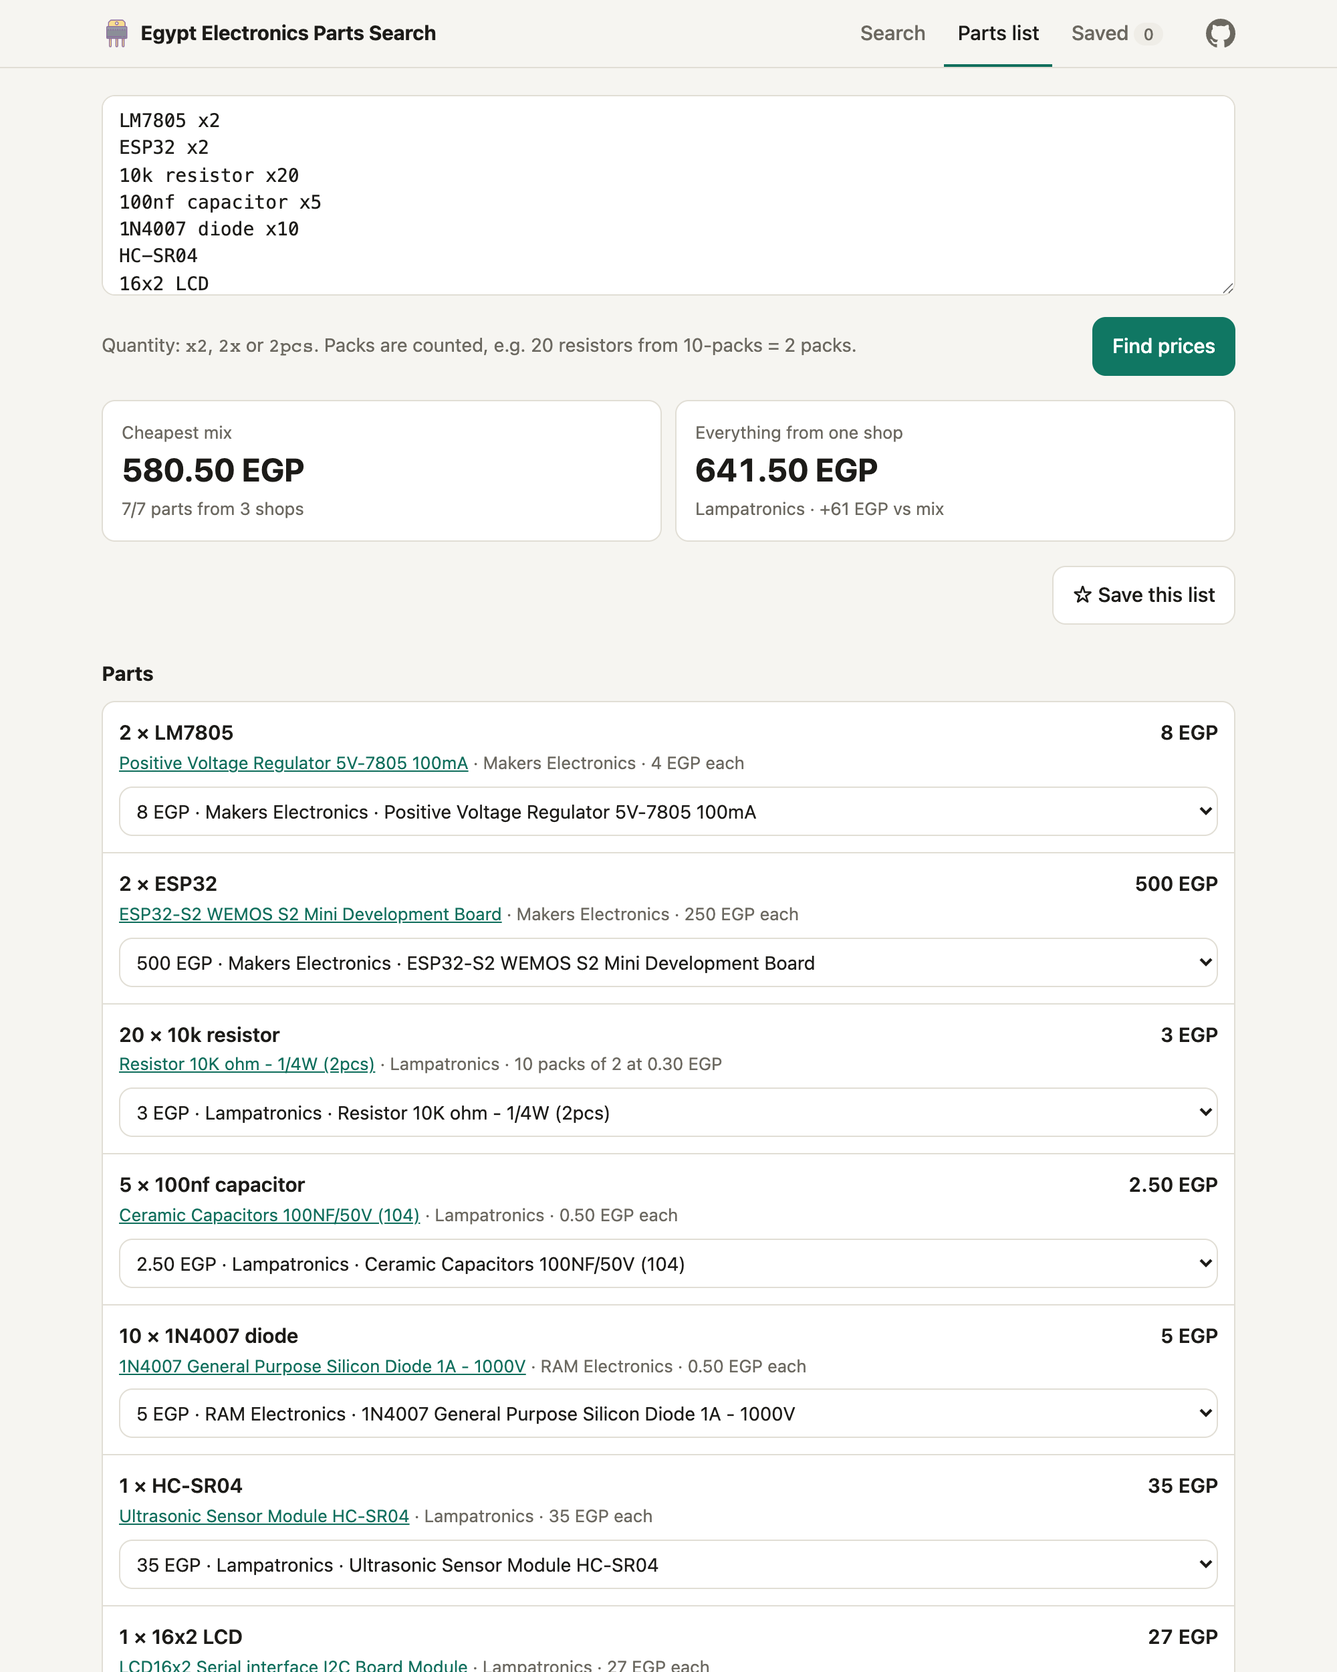
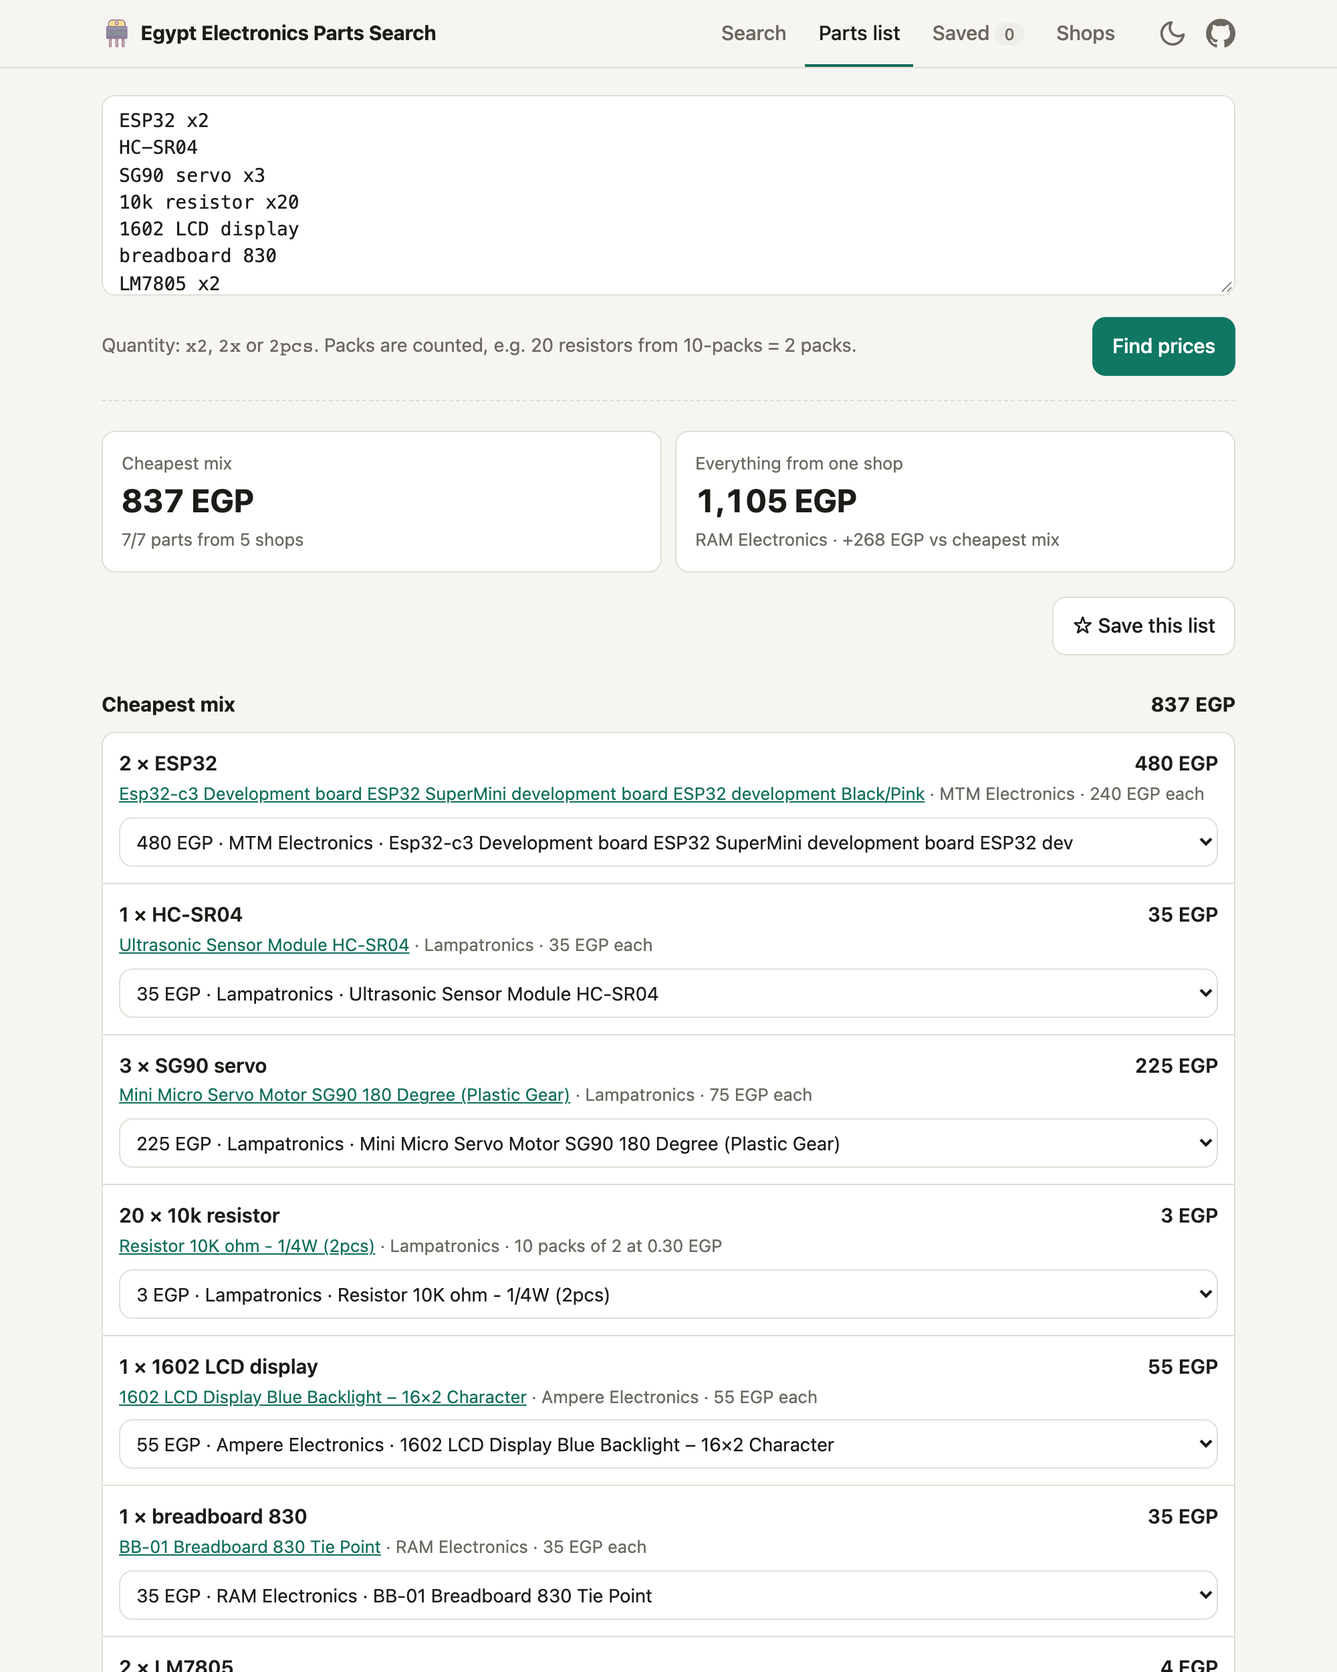
Add VoltX Electronics and retake the screenshots

diff --git a/src/index.html b/src/index.html
@@ -4,8 +4,8 @@
 <head>
 <meta charset="utf-8">
 <meta name="viewport" content="width=device-width, initial-scale=1">
-<title>Egypt Electronics Parts Search · Compare prices at 15 shops</title>
-<meta name="description" content="Search 15 Egyptian electronics shops at once and compare in-stock prices for parts like LM7805 and ESP32. Price a whole parts list. Free, no sign-up.">
+<title>Egypt Electronics Parts Search · Compare prices at 16 shops</title>
+<meta name="description" content="Search 16 Egyptian electronics shops at once and compare in-stock prices for parts like LM7805 and ESP32. Price a whole parts list. Free, no sign-up.">
 <link rel="canonical" href="https://parts.ahmedshaalan.com/">
 <link rel="icon" type="image/png" href="icon.png">
 <link rel="apple-touch-icon" href="icon.png">
@@ -16,7 +16,7 @@
 <meta property="og:type" content="website">
 <meta property="og:site_name" content="Egypt Electronics Parts Search">
 <meta property="og:title" content="Egypt Electronics Parts Search">
-<meta property="og:description" content="Search 15 Egyptian electronics shops at once and compare in-stock prices for parts like LM7805 and ESP32. Price a whole parts list. Free, no sign-up.">
+<meta property="og:description" content="Search 16 Egyptian electronics shops at once and compare in-stock prices for parts like LM7805 and ESP32. Price a whole parts list. Free, no sign-up.">
 <meta property="og:url" content="https://parts.ahmedshaalan.com/">
 <meta property="og:image" content="https://parts.ahmedshaalan.com/og-image.png">
 <meta property="og:image:width" content="1200">
@@ -26,7 +26,7 @@
 <meta property="og:locale:alternate" content="ar_EG">
 <meta name="twitter:card" content="summary_large_image">
 <meta name="twitter:title" content="Egypt Electronics Parts Search">
-<meta name="twitter:description" content="Search 15 Egyptian electronics shops at once and compare in-stock prices for parts like LM7805 and ESP32. Price a whole parts list. Free, no sign-up.">
+<meta name="twitter:description" content="Search 16 Egyptian electronics shops at once and compare in-stock prices for parts like LM7805 and ESP32. Price a whole parts list. Free, no sign-up.">
 <meta name="twitter:image" content="https://parts.ahmedshaalan.com/og-image.png">
 
 <!-- structured data for search engines -->
@@ -37,7 +37,7 @@
   "name": "Egypt Electronics Parts Search",
   "alternateName": "بحث قطع الإلكترونيات في مصر",
   "url": "https://parts.ahmedshaalan.com/",
-  "description": "Search 15 Egyptian electronics shops at once and compare in-stock prices for parts like LM7805 and ESP32. Price a whole parts list. Free, no sign-up.",
+  "description": "Search 16 Egyptian electronics shops at once and compare in-stock prices for parts like LM7805 and ESP32. Price a whole parts list. Free, no sign-up.",
   "applicationCategory": "ShoppingApplication",
   "operatingSystem": "Any",
   "browserRequirements": "Requires JavaScript",
@@ -352,7 +352,7 @@
 <main class="wrap">
   <!-- SEARCH -->
   <section id="tab-search">
-    <h1>Compare electronics part prices across 15 Egyptian shops</h1>
+    <h1>Compare electronics part prices across 16 Egyptian shops</h1>
     <form class="searchbar" id="search-form">
       <input type="search" id="q" placeholder="Search a part, e.g. LM7805, ESP32, 10k resistor" autocomplete="off" autofocus>
       <button class="btn primary" type="submit">Search</button>
@@ -361,7 +361,7 @@
 
     <div class="about" id="about">
       <h2>About this site</h2>
-      <p>Egypt Electronics Parts Search is a free price-comparison tool for electronic components in Egypt. Type a part number or a description, such as <em>LM7805</em>, <em>ESP32</em> or <em>10k resistor</em>, and it searches 15 Egyptian online electronics shops at the same time:
+      <p>Egypt Electronics Parts Search is a free price-comparison tool for electronic components in Egypt. Type a part number or a description, such as <em>LM7805</em>, <em>ESP32</em> or <em>10k resistor</em>, and it searches 16 Egyptian online electronics shops at the same time:
         <a href="https://www.ram-e-shop.com" target="_blank" rel="noopener">RAM Electronics</a>,
         <a href="https://makerselectronics.com" target="_blank" rel="noopener">Makers Electronics</a>,
         <a href="https://store.fut-electronics.com" target="_blank" rel="noopener">Future Electronics</a>,
@@ -375,20 +375,21 @@
         <a href="https://free-electronic.com" target="_blank" rel="noopener">Free Electronics</a>,
         <a href="https://hdelectronicseg.com" target="_blank" rel="noopener">HD Electronics</a>,
         <a href="https://circuit-electronics.com" target="_blank" rel="noopener">Circuit Electronics</a>,
-        <a href="https://electra.store" target="_blank" rel="noopener">Electra Store</a> and
-        <a href="https://mtm-electronic.com" target="_blank" rel="noopener">MTM Electronics</a>.
+        <a href="https://electra.store" target="_blank" rel="noopener">Electra Store</a>,
+        <a href="https://mtm-electronic.com" target="_blank" rel="noopener">MTM Electronics</a> and
+        <a href="https://voltx-store.com" target="_blank" rel="noopener">VoltX Electronics</a>.
         The results are merged into one list with in-stock items only, sale prices next to the original price, the per-piece price for packs, and sorting by best match or lowest price.</p>
       <p>Paste a whole parts list, one part per line, to get the cheapest mix of shops and the single shop that can supply the most of it. Star any product to save it and re-check its price later. Nothing to install and no account needed: saved items stay in your browser.</p>
       <p>I built this for myself because I was tired of searching every shop one by one. I'm not affiliated with any of the shops listed; all prices and stock come from their own websites, and every result links straight to the shop.</p>
       <details class="ar" lang="ar" dir="rtl">
         <summary>عن الموقع بالعربي</summary>
-        <p>موقع مجاني لمقارنة أسعار القطع والمكونات الإلكترونية في مصر. اكتب رقم القطعة أو وصفها، مثل <em>LM7805</em> أو <em>ESP32</em> أو مقاومة 10k، ويبحث الموقع في 15 متجر إلكترونيات مصري في نفس الوقت: رام إلكترونيكس، ميكرز إلكترونيكس، فيوتشر إلكترونيكس، ميكرو أوم، موست إلكترونيك، ديف بوردز ماركت، لامباترونيكس، UGE، أمبير إلكترونيكس، الجمل للإلكترونيات، فري إلكترونيكس، HD إلكترونيكس، سيركت إلكترونيكس، إلكترا ستور، وإم تي إم إلكترونيكس. تُجمع النتائج في قائمة واحدة تعرض القطع المتوفرة فقط، مع سعر التخفيض بجانب السعر الأصلي، وسعر القطعة الواحدة في العبوات، مع إمكانية الترتيب حسب الأقرب للبحث أو الأرخص.</p>
+        <p>موقع مجاني لمقارنة أسعار القطع والمكونات الإلكترونية في مصر. اكتب رقم القطعة أو وصفها، مثل <em>LM7805</em> أو <em>ESP32</em> أو مقاومة 10k، ويبحث الموقع في 16 متجر إلكترونيات مصري في نفس الوقت: رام إلكترونيكس، ميكرز إلكترونيكس، فيوتشر إلكترونيكس، ميكرو أوم، موست إلكترونيك، ديف بوردز ماركت، لامباترونيكس، UGE، أمبير إلكترونيكس، الجمل للإلكترونيات، فري إلكترونيكس، HD إلكترونيكس، سيركت إلكترونيكس، إلكترا ستور، إم تي إم إلكترونيكس، وفولت إكس إلكترونيكس. تُجمع النتائج في قائمة واحدة تعرض القطع المتوفرة فقط، مع سعر التخفيض بجانب السعر الأصلي، وسعر القطعة الواحدة في العبوات، مع إمكانية الترتيب حسب الأقرب للبحث أو الأرخص.</p>
         <p>أضف قائمة قطع كاملة، كل قطعة في سطر، لتعرف أرخص توليفة من المتاجر وأفضل متجر واحد يوفر أكبر عدد منها. اضغط على النجمة لحفظ أي منتج وإعادة فحص سعره لاحقًا. لا يحتاج الموقع إلى حساب، والقطع المحفوظة تبقى في متصفحك فقط.</p>
         <p>صنعت هذا الموقع لنفسي لأنني تعبت من البحث في كل متجر على حدة. لا تربطني أي علاقة بأي من المتاجر المذكورة؛ كل الأسعار والتوفر تأتي من مواقع المتاجر نفسها، وكل نتيجة تنقلك مباشرة إلى المتجر.</p>
       </details>
       <h2>Common questions</h2>
       <div class="faq">
-      <details><summary>Where can I buy electronic components in Egypt?</summary><p>The 15 shops above all sell online and deliver across Egypt. Search a part here to see which of them have it in stock right now and at what price.</p></details>
+      <details><summary>Where can I buy electronic components in Egypt?</summary><p>The 16 shops above all sell online and deliver across Egypt. Search a part here to see which of them have it in stock right now and at what price.</p></details>
       <details><summary>Which shop is cheapest for Arduino, ESP32 or Raspberry Pi parts?</summary><p>It changes from part to part, which is why this tool exists: search once and the results are sorted so the lowest price is easy to spot. Paste your whole list to find the cheapest single shop, which also saves on shipping.</p></details>
       <details><summary>Are the prices live?</summary><p>Yes. Every search asks the shops' own websites, so prices and stock are what each shop currently lists. Results are kept for up to an hour so the shops aren't hit repeatedly for the same part.</p></details>
       <details><summary>Is it free?</summary><p>Yes, and open source. There is no account, and saved items never leave your browser.</p></details>

diff --git a/src/js/shops.js b/src/js/shops.js
@@ -579,6 +579,46 @@ class MtmShop extends CatalogShop {
   }
 }
 
+class VoltxShop extends Shop {
+  // Next.js storefront with its own JSON search API, which allows browsers directly.
+  // Results carry price, offer and stock, so one request answers a search.
+  platform = "Custom";
+
+  get api() {
+    return `${this.base}/api/products`;
+  }
+
+  async search(query, signal) {
+    const url = `${this.api}/search/public?q=${encodeURIComponent(query)}&limit=160`;
+    const { results } = await (await ok(await fetch(url, { signal }))).json();
+    return (results || []).map((d) => this.product(d)).filter((p) => p.in_stock && p.price > 0);
+  }
+
+  price(d) {
+    const sell = parseMoney(d.sell_price);
+    const offer = d.is_offer ? parseMoney(d.offer_price) : 0;
+    return offer > 0 && offer < sell ? { price: offer, old_price: sell } : { price: sell, old_price: null };
+  }
+
+  product(d) {
+    return {
+      shop: this.key,
+      ref: String(d.product_id),
+      name: cleanName(d.name),
+      ...this.price(d),
+      url: this.base + (d.url || `/product/${d.slug}`),
+      image: d.primary_media ? this.base + d.primary_media : null,
+      in_stock: d.in_stock === true,
+    };
+  }
+
+  async check(ref, signal) {
+    const d = await (await ok(await fetch(`${this.api}/${encodeURIComponent(ref)}`, { signal }))).json();
+    if (!d || !d.product_id) return null;
+    return { ...this.price(d), in_stock: Number(d.stock_quantity || 0) > 0 };
+  }
+}
+
 export const SHOPS = [
   new OdooShop("ram", "RAM Electronics", "https://www.ram-e-shop.com"),
   Object.assign(new WooShop("makers", "Makers Electronics", "https://makerselectronics.com"), {
@@ -599,5 +639,6 @@ export const SHOPS = [
   Object.assign(new WooShop("circuit", "Circuit Electronics", "https://circuit-electronics.com"), { api: "wc/store" }),
   new ElectraShop("electra", "Electra Store", "https://electra.store"),
   new MtmShop("mtm", "MTM Electronics", "https://mtm-electronic.com"),
+  new VoltxShop("voltx", "VoltX Electronics", "https://voltx-store.com"),
 ];
 export const SHOPS_BY_KEY = Object.fromEntries(SHOPS.map((s) => [s.key, s]));

diff --git a/README.md b/README.md
@@ -9,9 +9,9 @@ Find a part, see every in-stock price side by side, and price a whole parts list
 
 ### [**→ Open the site**](https://parts.ahmedshaalan.com/)
 
-`15 shops` · `live prices` · `out-of-stock hidden` · `works on your phone` · `free, no sign-up` · [`AGPL-3.0 license`](LICENSE)
+`16 shops` · `live prices` · `out-of-stock hidden` · `works on your phone` · `free, no sign-up` · [`AGPL-3.0 license`](LICENSE)
 
-<img src=".github/screenshots/search.png" alt="Search results for LM7805 across nine Egyptian shops, sorted by match and price" width="760">
+<img src=".github/screenshots/search.png" alt="Search results for LM7805 across 16 Egyptian shops, sorted by match and price" width="760">
 
 </div>
 
@@ -26,7 +26,7 @@ Egypt Electronics Parts Search asks every shop at once, recognizes those names a
 ## Features
 
 **🔍 Search every shop at once**
-- Queries all 15 shops at the same time and merges the results into one list
+- Queries all 16 shops at the same time and merges the results into one list
 - Hides out-of-stock items automatically
 - Shows sale prices next to the original price, and the per-piece price for packs ("(10pcs)")
 - Sort by best match, cheapest, or cheapest per piece, or filter to one shop
@@ -49,7 +49,7 @@ Egypt Electronics Parts Search asks every shop at once, recognizes those names a
 
 <table>
 <tr>
-<td width="62%"><img src=".github/screenshots/parts-list.png" alt="A seven-part list priced across shops: cheapest mix 580.50 EGP versus 641.50 EGP from a single shop"></td>
+<td width="62%"><img src=".github/screenshots/parts-list.png" alt="A seven-part list priced across shops: cheapest mix 837 EGP versus 1,105 EGP from a single shop"></td>
 <td width="38%"><img src=".github/screenshots/phone-dark.png" alt="ESP32 search results on a phone in dark mode"></td>
 </tr>
 <tr>
@@ -119,19 +119,20 @@ Saved items live in your browser's storage, so they're private to that browser a
 | [Circuit Electronics](https://circuit-electronics.com) | WooCommerce | Store API |
 | [Electra Store](https://electra.store) | Custom (Laravel) | Full catalog from the shop's API, searched in the browser, plus a stock lookup per product |
 | [MTM Electronics](https://mtm-electronic.com) | Custom (Next.js + Laravel) | Full catalog from the shop's API, searched in the browser |
+| [VoltX Electronics](https://voltx-store.com) | Custom (Next.js) | The shop's own public search API |
 
 ## How it works
 
 The whole app runs in your browser. It's a static site on GitHub Pages, with no server of its own.
 
-The catch: browsers only let a website read another site's data if that site allows it (CORS). The two Shopify shops, El Gammal, MTM and Electra's catalog do; the other ten don't. For those, requests go through a tiny **relay** on Cloudflare Workers that fetches the shop's page and hands it back.
+The catch: browsers only let a website read another site's data if that site allows it (CORS). The two Shopify shops, El Gammal, MTM, VoltX and Electra's catalog do; the other ten don't. For those, requests go through a tiny **relay** on Cloudflare Workers that fetches the shop's page and hands it back.
 
 ```
-                                ┌──────────── direct ────────────► Future, DevBoards, El Gammal  (CORS allowed)
- GitHub Pages site ─────────────┤
+                                ┌──────────── direct ────────────► Future, DevBoards, El Gammal,
+ GitHub Pages site ─────────────┤                                  MTM, VoltX, Electra's catalog  (CORS allowed)
  (all search logic, in JS)      └─► Cloudflare Worker relay ─────► RAM, Makers, Micro Ohm, Most,
                                     (allow-listed shops only,      UGE, Ampere, Lampatronics,
-                                     1-hour cache)                 Free, HD, Circuit
+                                     1-hour cache)                 Free, HD, Circuit, Electra's stock
 ```
 
 1. **Fan out.** A search runs against all shops in parallel. Each shop gets 25 seconds; a slow or broken shop is marked failed instead of holding up the rest.
@@ -171,6 +172,7 @@ In a parts list, the default pick for each line is the **cheapest product within
 - **Shopify:** the suggest endpoint caps at 10 results, so the app loads the whole catalog from `products.json` (about 1,300 products, under 1 MB compressed), keeps it for an hour, and searches it locally. Loading starts as soon as the page opens, so the first search is fast.
 - **Odoo (RAM):** parses up to 3 pages of `/shop?search=…`, then calls `get_combination_info` per product for the stock count. RAM slows down under load, so it gets at most 5 requests at a time, and stock lookups are cached for an hour.
 - **El Gammal (Supabase):** the storefront reads products straight from its Supabase database with a public, read-only "anon" key, and so does this app: the same product filters as the shop's own search page, then the shop's `get_online_stock` function per matching product (at most 6 at a time, cached for an hour). The internal code at the start of product names ("XX629-") is dropped. If the shop ever changes that key, it shows as `failed` until the key in `src/js/shops.js` is updated.
+- **VoltX:** the storefront's own search API (`/api/products/search/public`) returns name, price, offer and stock in one response and allows browsers directly, so a search is a single request with no relay.
 - **Lampatronics:** the storefront is a JavaScript app backed by `/api/frontend/product`. The API requires the key the site embeds in every page. The app reads that key from the home page and re-reads it if it's ever rejected. Up to 3 pages of 50 results.
 
 ## Project structure
@@ -248,7 +250,7 @@ curl "https://newshop.com/wp-json/wc/store/v1/products?search=7805&per_page=3"
 
 For Shopify, try `https://newshop.com/products.json?limit=1`.
 
-**If it's a different platform**, extend `Shop` and implement two methods:
+**If it's a different platform**, look for a JSON API behind the shop's own search box first (the browser's network tab shows it; VoltX and Lampatronics were added that way). Then extend `Shop` and implement two methods:
 
 ```js
 class MyShop extends Shop {
